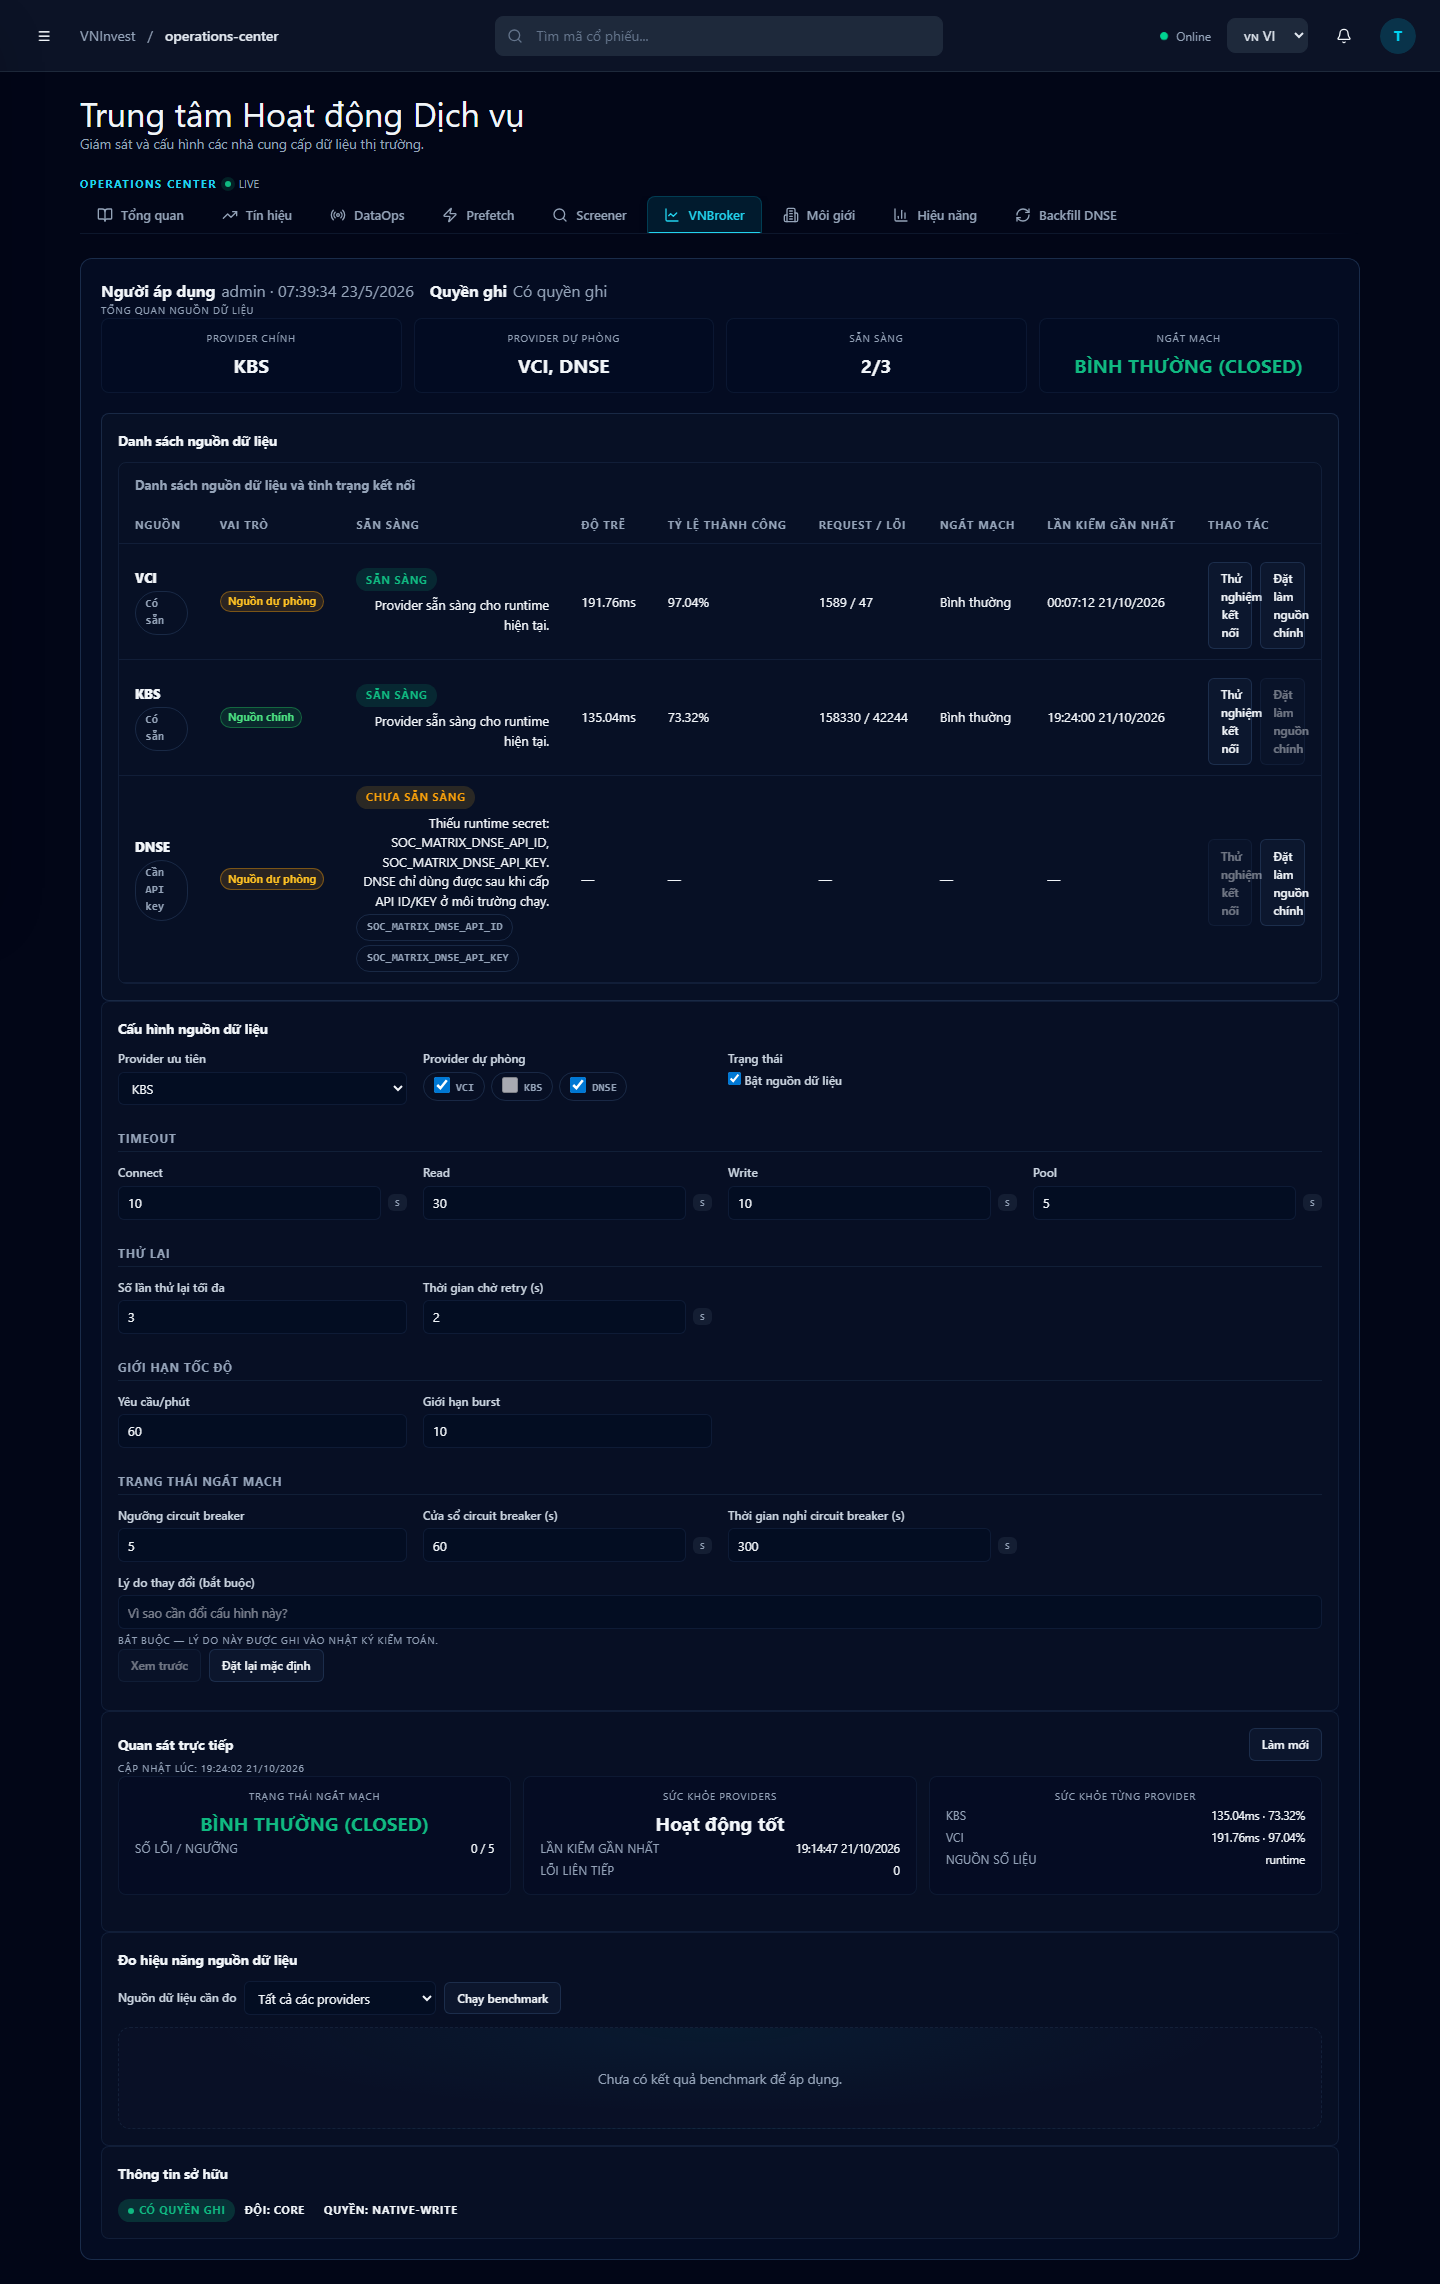
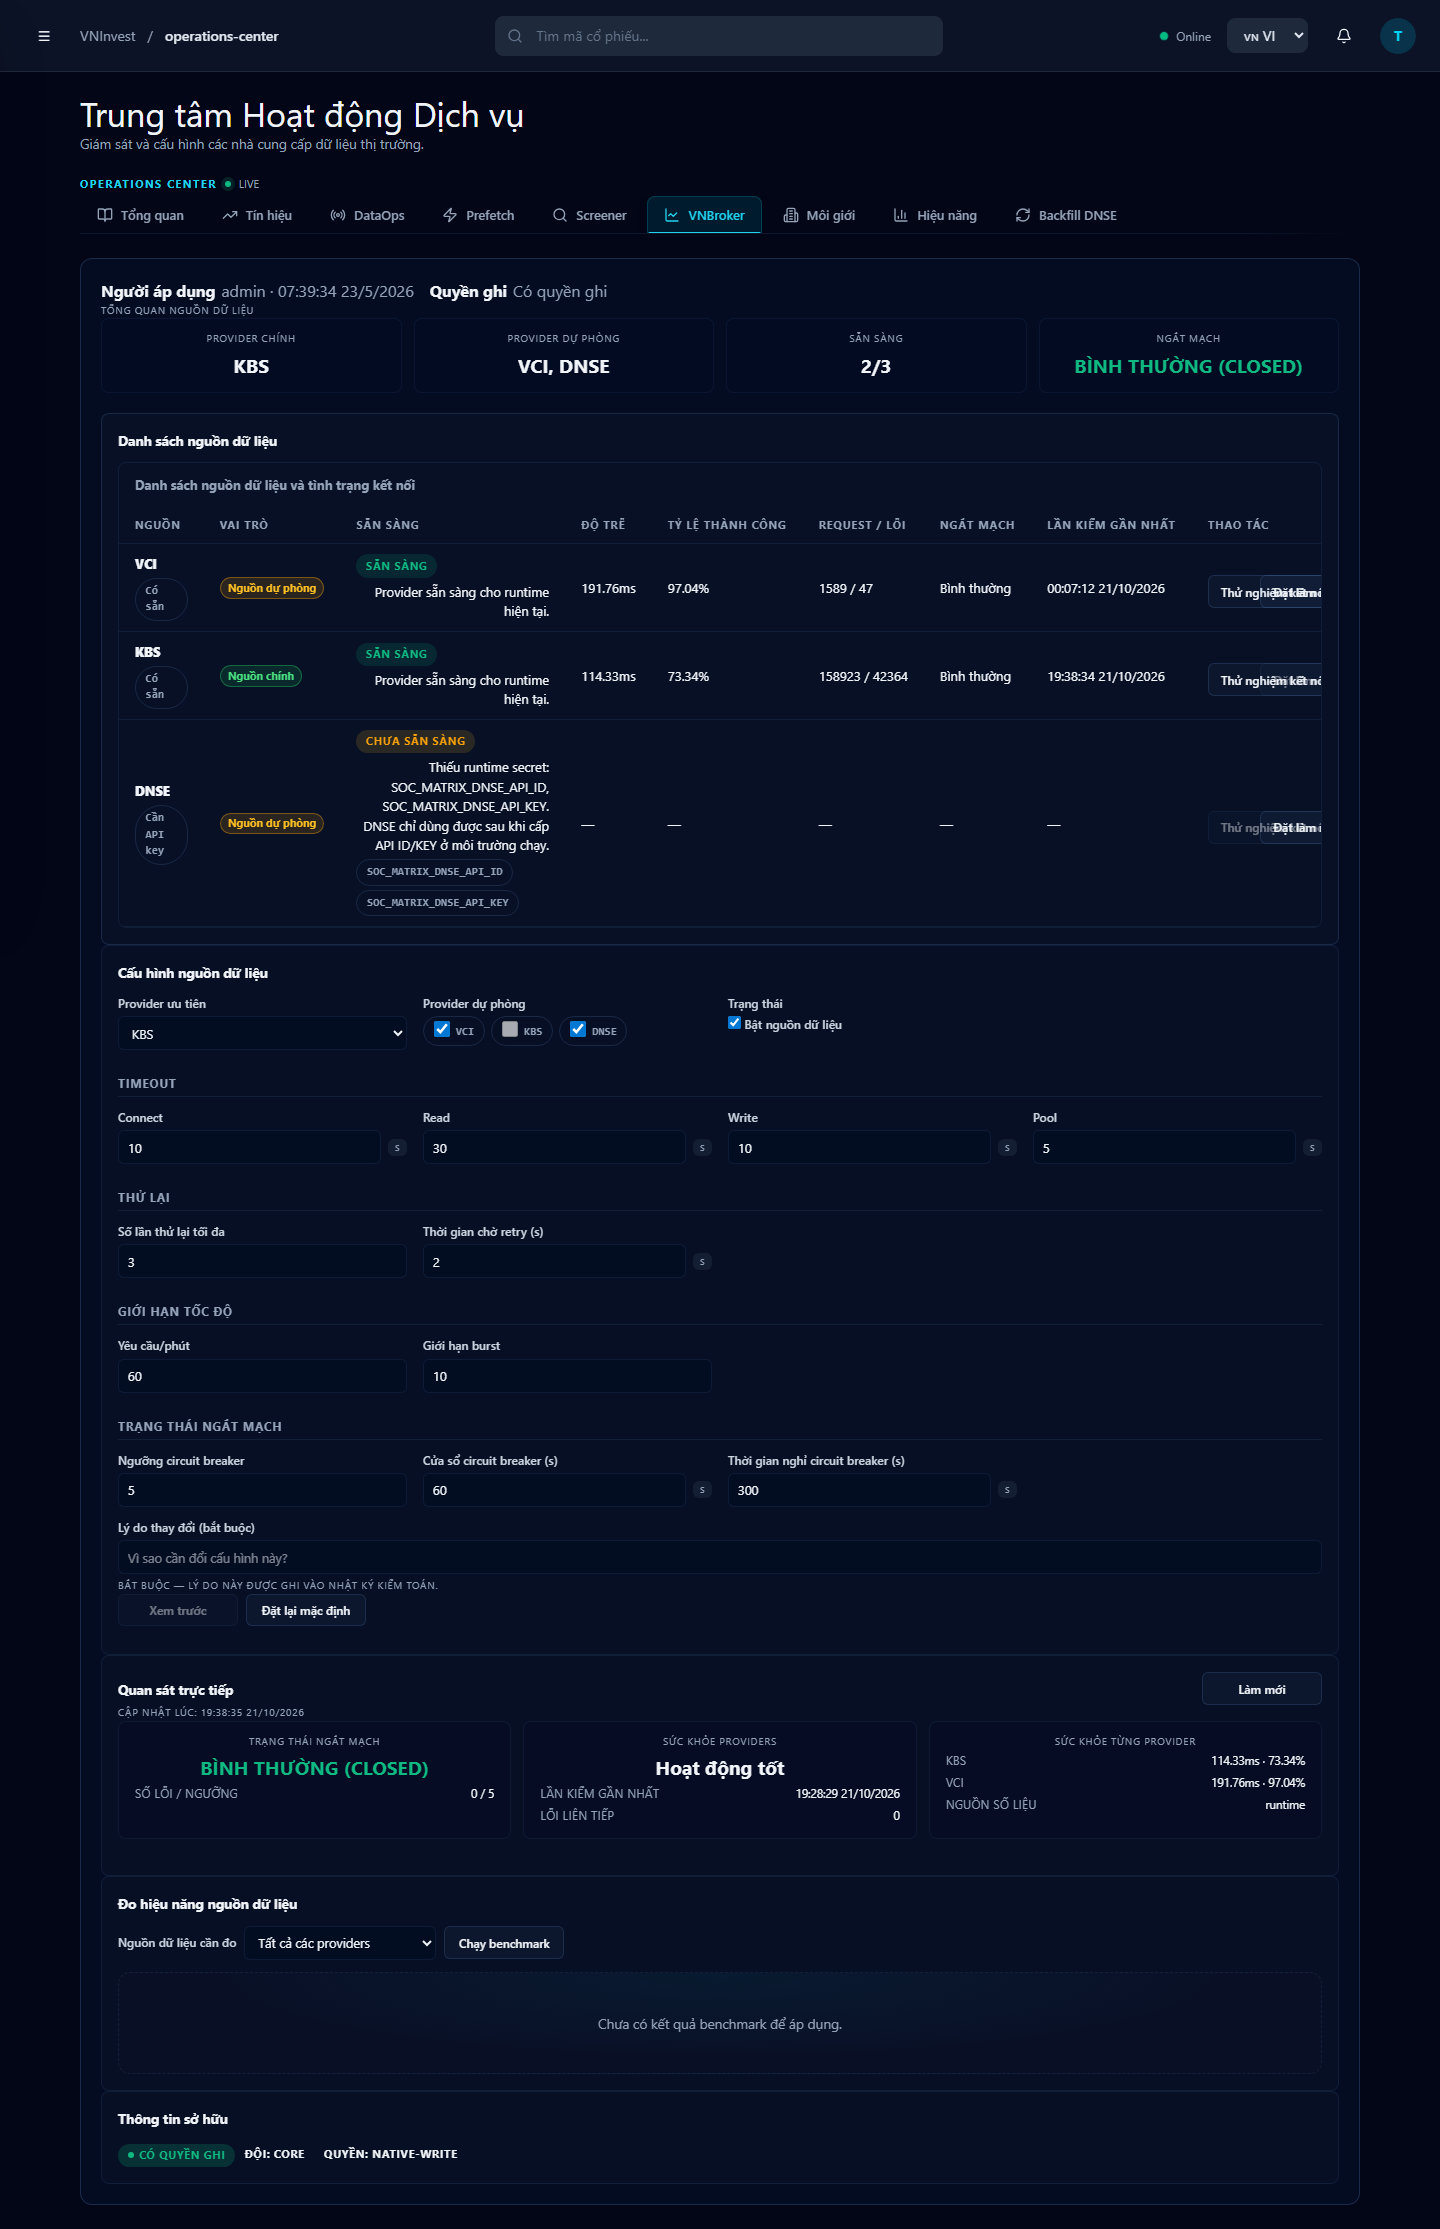
fix(soc): light mode — card quan sat, tieu de section, empty state, cot thao tac (W1-C vong 4)
BANG CHUNG (mo anh ra xem, L-V05): docs/evidence/ui-redesign-20261021/01-vnbroker-light.png
- card "Quan sat truc tiep" van nen xam-dam (`.metricCard` dark-first: rgba(#020b23/.4))
- tieu de section van nhat (`.sectionCardTitle` -> mau sang)
- empty state benchmark van nen xam
- 2 nut hanh dong van CHONG nhau (`.vnbTileActions` la `grid 2 cot` ⇒ moi nut bi bop)

Sua:
- `.metricCard` o light: nen trang · vien #e2e8f0 · chu #0f172a
- `.sectionCardTitle` / `.emptyState` o light: #334155 · emptyState nen #f8fafc
- `.vnbTileActions`: 1 hang (grid-auto-flow: column) + nowrap ⇒ 2 nut khong bop/chong nhau

diff --git a/packages/web/src/components/soc/soc.components.css b/packages/web/src/components/soc/soc.components.css
@@ -4513,3 +4513,29 @@
   min-width: 7.5rem;
   white-space: nowrap;
 }
+
+/* ── W1-C (vong 4): card + tieu de + empty state + cot thao tac o light mode ──
+   Do (mo anh ra xem, L-V05): card "Quan sat truc tiep" van nen xam-dam
+   (`.metricCard` dark-first) · tieu de section (`.sectionCardTitle`) van nhat ·
+   empty state van nen xam · 2 nut hanh dong van CHONG nhau (`.vnbTileActions`
+   la `grid 2 cot` nen moi nut bi bop trong 1 o hep).
+   Fix: nen trang · chu toi/tieu sang · cot thao tac 1 hang khong bop. */
+:root[data-theme="light"] .metricCard {
+  background: #ffffff;
+  border-color: #e2e8f0;
+  color: #0f172a;
+}
+:root[data-theme="light"] .sectionCardTitle,
+:root[data-theme="light"] .emptyState {
+  color: #334155;
+}
+:root[data-theme="light"] .emptyState {
+  background: #f8fafc;
+  border-radius: 8px;
+}
+.vnbTileActions {
+  grid-template-columns: none;
+  grid-auto-flow: column;
+  justify-content: start;
+  white-space: nowrap;
+}
